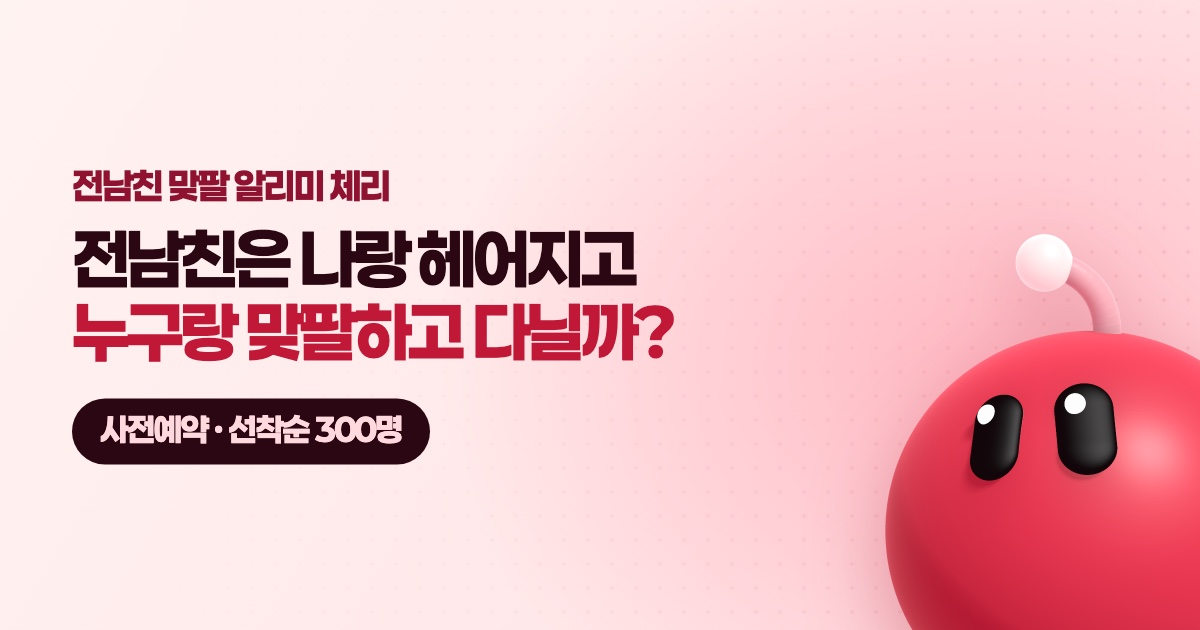
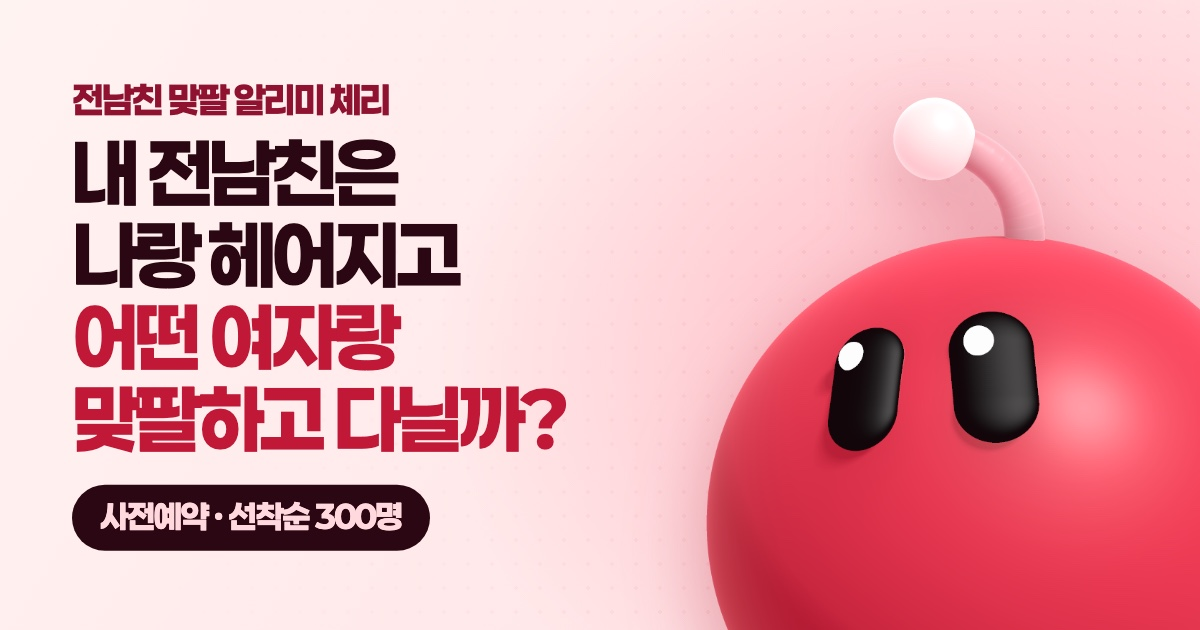
체리 C 세트: '전남친에게 완전 비밀 보장', C2 안내 줄을 카드 아래로, 공유 이미지 네 줄
안내 문구를 짧게 바꾸고, C2에서는 알림 카드 바로 아래에 두어 브랜드 줄이 혼자 광고를 닫게 한다.
가로형 공유 이미지는 '내 전남친은 / 나랑 헤어지고 / 어떤 여자랑 / 맞팔하고 다닐까?' 네 줄에
체리를 기본 카드보다 크게 둔다.

diff --git a/design/namchin-demand/og/og.css b/design/namchin-demand/og/og.css
@@ -68,6 +68,6 @@ body { background: #111; font-family: Paperlogy, sans-serif; }
 /* B, crush variant: the longer lead needs its own line. */
 .b.crush h1 { font-size: 80px; }
 
-/* B, ex variant (/ex): two long lines, so the type steps down and the cherry moves right. */
-.b.ex h1 { font-size: 66px; }
-.b.ex .cherry { width: 600px; height: 600px; right: -190px; bottom: -150px; }
+/* B, ex variant (/ex): four short lines; the cherry stays as large as on the default card. */
+.b.ex h1 { margin: 12px 0 24px; font-size: 76px; line-height: 1.08; }
+.b.ex .cherry { width: 860px; height: 860px; right: -230px; bottom: -250px; }

diff --git a/docs/marketing/cherry-meta-ab/ad.css b/docs/marketing/cherry-meta-ab/ad.css
@@ -181,3 +181,5 @@ footer { position: absolute; left: var(--side); right: var(--side); bottom: var(
 .assure-icon { display: grid; place-items: center; width: 66px; height: 66px; border-radius: 50%; border: 3px solid currentColor; }
 .assure-icon svg { width: 42px; height: 42px; fill: none; stroke: currentColor; stroke-width: 2.4; stroke-linecap: round; stroke-linejoin: round; }
 .c2 .assure, .c3 .assure { color: #ffd6db; }
+/* Arm C v3: on C2 the lock line belongs to the alert, so it sits under the card and the brand closes the ad alone. */
+.lock .assure { justify-content: center; margin-top: 44px; }

diff --git a/docs/marketing/cherry-meta-ab/ad.html b/docs/marketing/cherry-meta-ab/ad.html
@@ -48,8 +48,9 @@
                 <li><img src="${asset('public/cherry/assets/hero/rina-profile.jpg')}" alt=""><b>@rina.wknd_</b></li>
               </ul>
             </article>
+            ${copy.assure ? offer : ''}
           </div>
-          <footer>${brandRow}${offer}</footer>`,
+          <footer>${brandRow}${copy.assure ? '' : offer}</footer>`,
         3: () => `
           <div class="count">
             <p class="count-label">${copy.c3Label}</p>

diff --git a/design/namchin-demand/og/b-ex.html b/design/namchin-demand/og/b-ex.html
@@ -12,7 +12,7 @@
       <img class="cherry" src="/og/cherry.png" alt="">
       <div class="copy">
         <p class="kicker">전남친 맞팔 알리미 체리</p>
-        <h1>전남친은 나랑 헤어지고<em>누구랑 맞팔하고 다닐까?</em></h1>
+        <h1>내 전남친은<br>나랑 헤어지고<em>어떤 여자랑<br>맞팔하고 다닐까?</em></h1>
         <p class="limit">사전예약 · 선착순 300명</p>
       </div>
     </main>

diff --git a/docs/marketing/cherry-meta-ab/copy.js b/docs/marketing/cherry-meta-ab/copy.js
@@ -23,7 +23,7 @@ window.COPY = {
     c3Label: '전남친 팔로잉',
     c4Friend: '야 너 전남친 어제 어떤 여자랑 맞팔했던데?',
     // A reassurance line with a lock icon replaces the offer chip.
-    assure: '전남친에게 절대 알림이 가지 않아요',
+    assure: '전남친에게 완전 비밀 보장',
   },
 };
 
